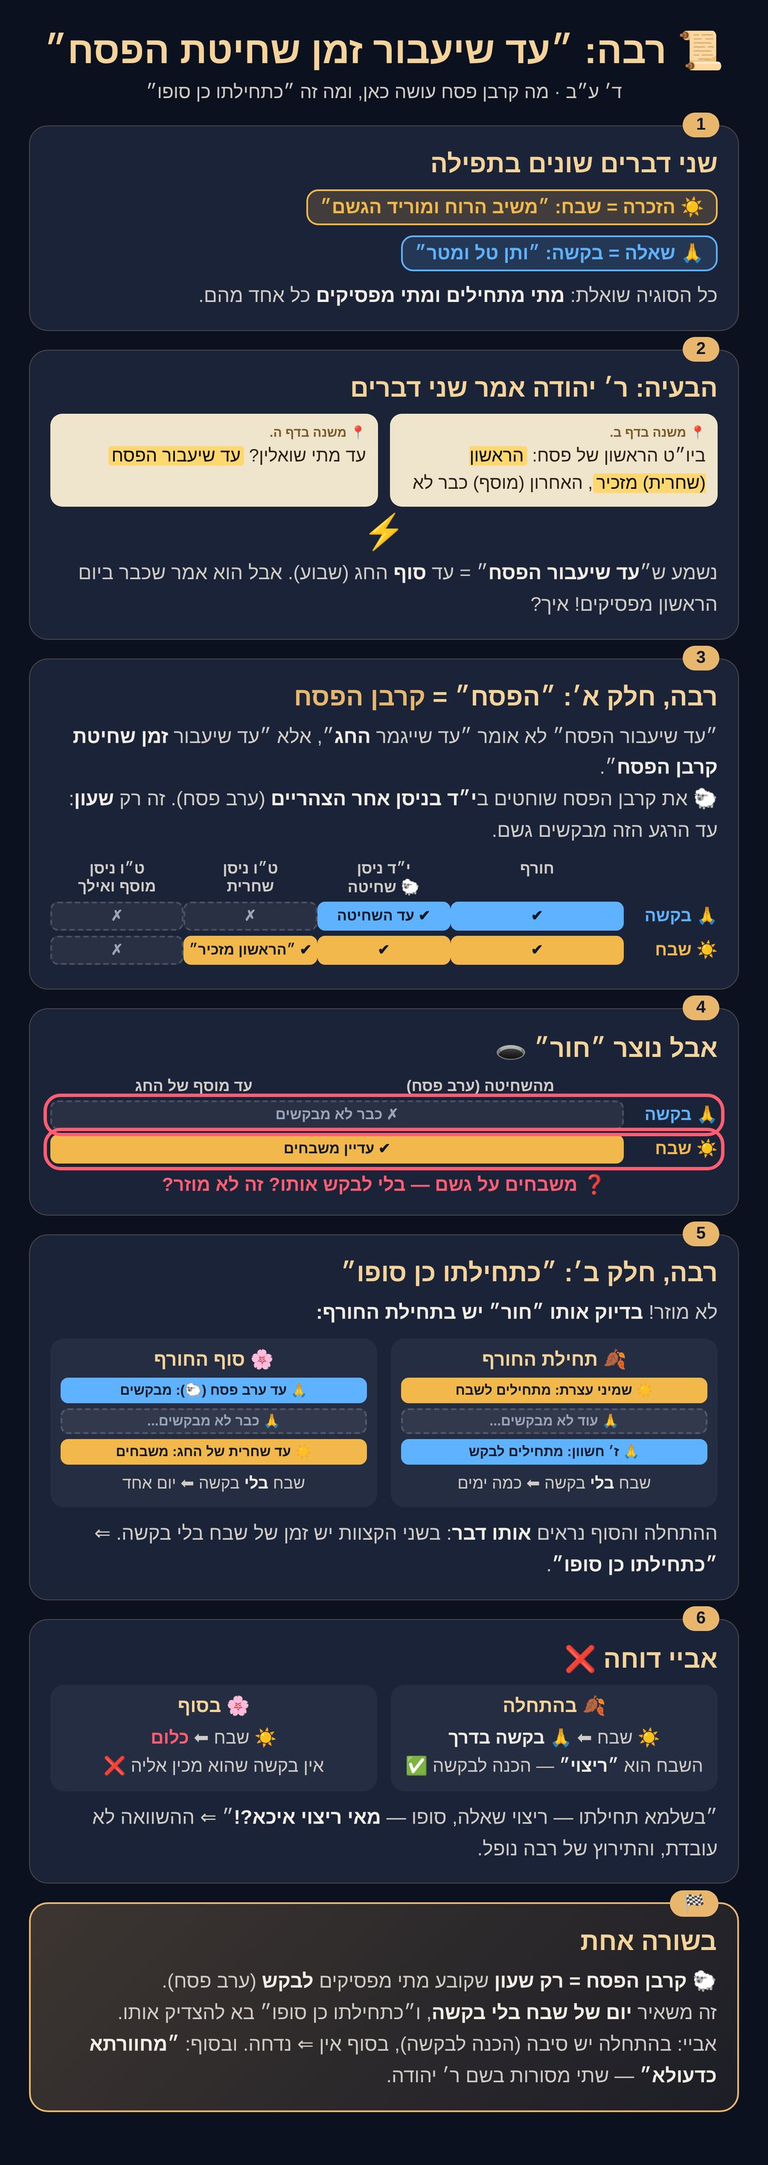
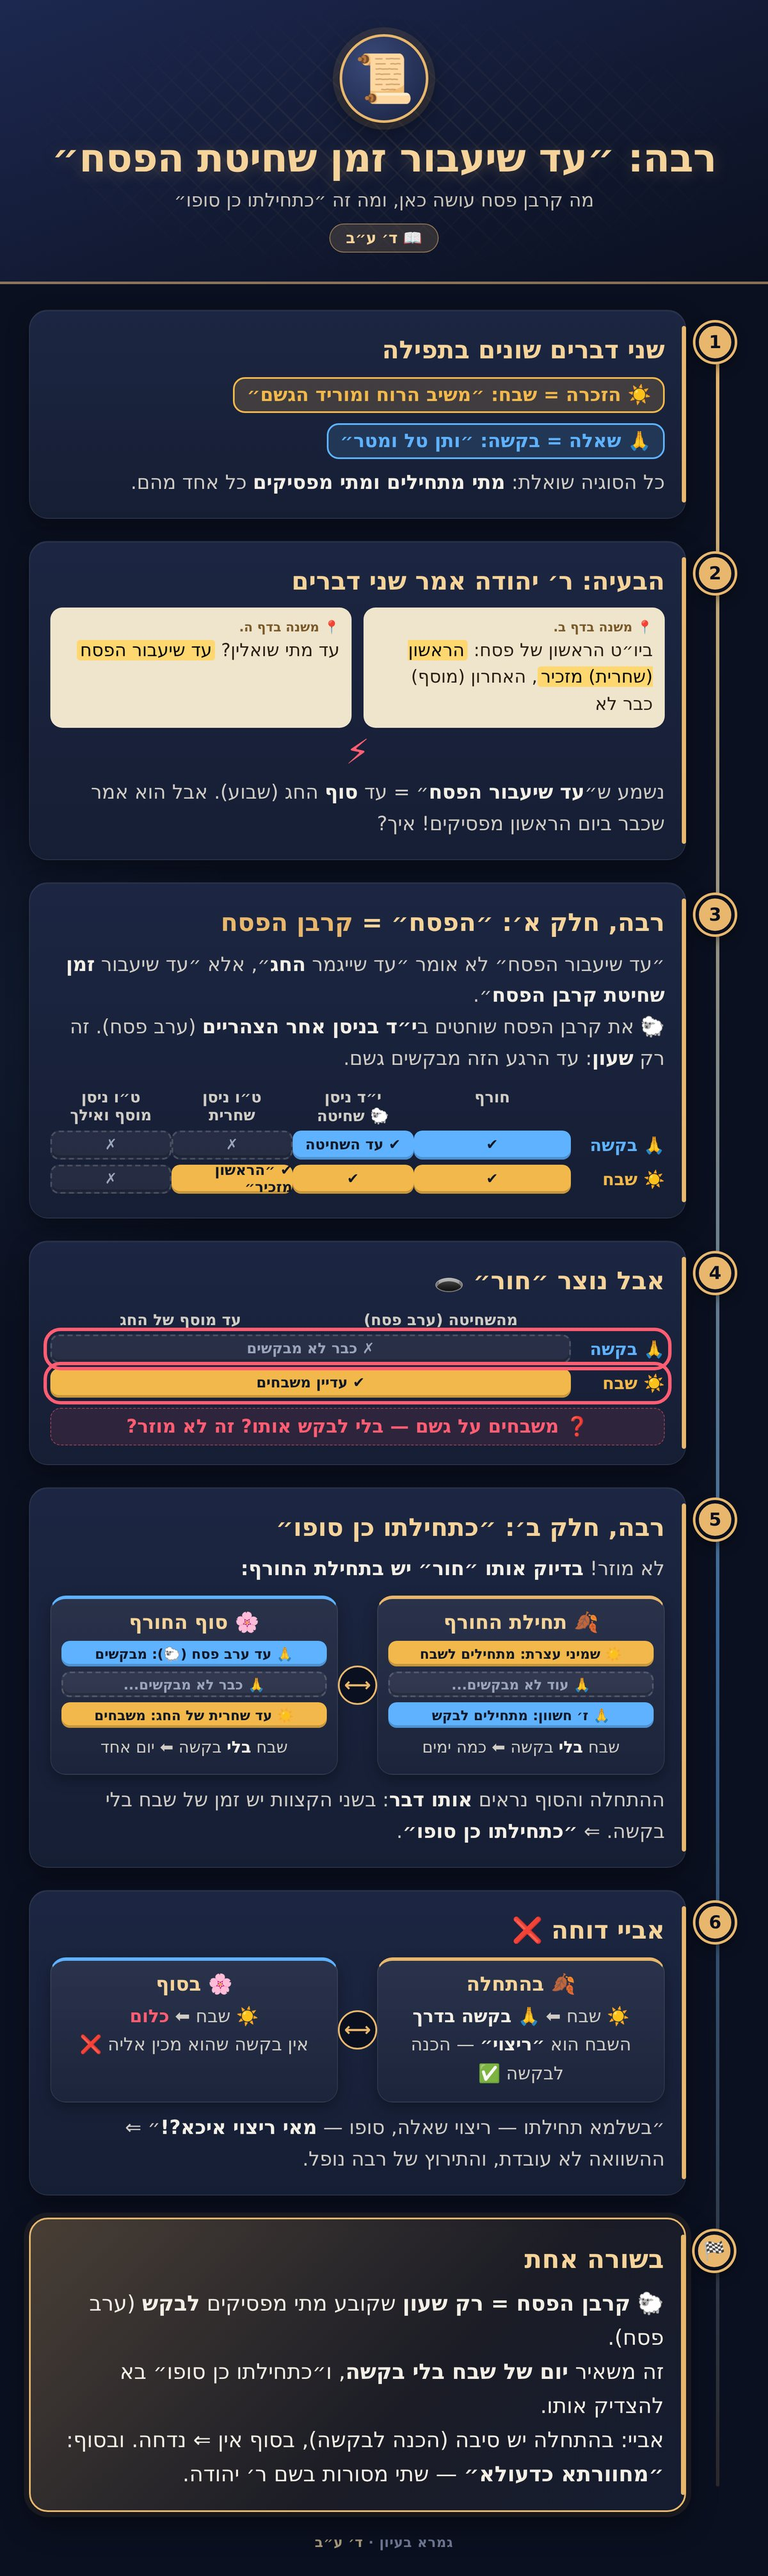
שדרוג העיצוב של כל 28 ההסברים המאוירים: כותרת מעוצבת, קו זרימה בין השלבים, תגית תפקיד לכל שלב, כרטיסים, טבלאות ו״מול״ עשירים יותר (#102)
Claude-Session: https://claude.ai/code/session_01FELJGEZVtARXENqMAaEEkw

diff --git a/sw.js b/sw.js
@@ -2,7 +2,7 @@
 // קוד ונתונים (html/js/css): קודם מהרשת (תמיד הגרסה החדשה), ואם אין רשת — מהשמור.
 // תמונות (צילומי דף, איורים, אייקונים): קודם מהשמור, כי הן כמעט לא משתנות; מתעדכנות ברקע.
 // שינוי גדול במבנה, או שינוי של תמונה קיימת (חיתוך מחדש, שינוי מספור קטעים)? מעלים את VERSION — אחרת הטלפון יציג את התמונה הישנה מהשמור.
-const VERSION = 'v12';
+const VERSION = 'v13';
 const CORE = ['./', 'index.html', 'taanit.html', 'tree.html', 'words.html', 'theme.css', 'prefs.js', 'loader.js', 'explain.js',
   'data/common.js', 'data/taanit/index.js', 'data/taanit/words.js', 'manifest.webmanifest', 'icons/icon-192.png'];
 // רשימת הדפים הבנויים — מהמפה של המסכת (MAS), כך שאין צורך לעדכן כאן כשמוסיפים דף

diff --git a/.claude/tools/explain/exlib.py b/.claude/tools/explain/exlib.py
@@ -19,10 +19,19 @@ table.t td.n{color:var(--gb);font-weight:900}
 .lst div{margin:4px 0} .lst b{color:var(--p)}
 .vq{font-family:'Frank Ruhl Libre','David',serif;font-size:24px;color:#ffe6b0}
 """
+CSS += "\n/* ===================== 🎨 עיצוב משודרג (נוב׳ 2026) ===================== */\n:root{--ink:#0b1020;--card:#161e34;--card2:#1c2642}\nbody{background:#0b1020;width:900px;padding:0 0 30px;font-family:'DejaVu Sans','Heebo','Noto Sans Hebrew',Arial,sans-serif;\n  background-image:radial-gradient(900px 500px at 85% -10%,rgba(232,183,109,.16),transparent 60%),radial-gradient(700px 600px at -10% 40%,rgba(95,178,255,.07),transparent 60%)}\n.hero{position:relative;margin:0 0 30px;padding:40px 40px 34px;text-align:center;overflow:hidden;\n  background:linear-gradient(160deg,#1d2850 0%,#121a33 55%,#0b1020 100%);border-bottom:3px solid rgba(232,183,109,.55)}\n.hero:before{content:'';position:absolute;inset:0;opacity:.18;\n  background-image:repeating-linear-gradient(45deg,rgba(232,183,109,.5) 0 2px,transparent 2px 22px),repeating-linear-gradient(-45deg,rgba(232,183,109,.35) 0 2px,transparent 2px 22px);\n  -webkit-mask-image:radial-gradient(ellipse at center,#000 0%,transparent 70%)}\n.hero .ic{position:relative;display:inline-flex;align-items:center;justify-content:center;width:104px;height:104px;border-radius:50%;font-size:56px;\n  background:radial-gradient(circle at 35% 30%,#3a4a7a,#18213f);border:3px solid var(--gold);box-shadow:0 0 0 8px rgba(232,183,109,.12),0 12px 30px rgba(0,0,0,.45);margin-bottom:14px}\n.hero h1{position:relative;font-size:46px;letter-spacing:-.5px;text-shadow:0 3px 18px rgba(232,183,109,.25)}\n.hero .sub{position:relative;margin:10px auto 0;max-width:760px;font-size:22px;color:#c9c3b8}\n.hero .daf{position:relative;display:inline-block;margin-top:14px;padding:5px 18px;border-radius:30px;background:rgba(232,183,109,.16);border:1px solid rgba(232,183,109,.55);color:var(--gb);font-weight:800;font-size:18px}\n.flow{position:relative;margin:0 34px;padding-right:62px}\n.flow:before{content:'';position:absolute;right:23px;top:18px;bottom:30px;width:4px;border-radius:4px;background:linear-gradient(180deg,var(--gold),rgba(95,178,255,.55) 60%,rgba(232,183,109,.15))}\n.step{background:linear-gradient(180deg,var(--card2),var(--card));border:1px solid rgba(255,255,255,.07);border-radius:22px;padding:20px 24px 22px;margin-bottom:26px;\n  box-shadow:0 10px 26px rgba(0,0,0,.35),inset 0 1px 0 rgba(255,255,255,.05)}\n.step:after{content:'';position:absolute;right:-1px;top:18px;bottom:18px;width:5px;border-radius:5px;background:var(--rc,var(--gold))}\n.step .num{top:14px;right:-58px;width:46px;height:46px;padding:0;border-radius:50%;display:flex;align-items:center;justify-content:center;font-size:21px;\n  background:var(--rc,var(--gold));color:#0b1020;border:4px solid #0b1020;box-shadow:0 0 0 3px var(--rc,var(--gold)),0 6px 14px rgba(0,0,0,.5)}\n.step .role{display:inline-flex;align-items:center;gap:6px;font-size:16px;font-weight:900;padding:3px 12px;border-radius:20px;\n  color:var(--rc,var(--gold));background:color-mix(in srgb,var(--rc,var(--gold)) 16%,transparent);border:1px solid color-mix(in srgb,var(--rc,var(--gold)) 50%,transparent)}\n.step h2{font-size:29px;margin:8px 0 12px;line-height:1.3}\n.step.q{--rc:#ff5d72;border-color:rgba(255,93,114,.25)} .step.a{--rc:#6fd35c;border-color:rgba(111,211,92,.22)} .step.x{--rc:#ff9f43;border-color:rgba(255,159,67,.25)}\n.step.s{--rc:#5fb2ff;border-color:rgba(95,178,255,.22)} .step.k{--rc:#c4a7ff;border-color:rgba(196,167,255,.22)} .step.n{--rc:#2dd4bf;border-color:rgba(45,212,191,.22)}\n.step.sum{--rc:var(--gold);background:linear-gradient(135deg,rgba(232,183,109,.28),rgba(232,183,109,.07) 60%,rgba(22,30,52,.9));border:2px solid var(--gold);\n  box-shadow:0 0 0 6px rgba(232,183,109,.08),0 14px 34px rgba(0,0,0,.45)}\n.step.sum h2{font-size:30px} .step.sum p{font-size:25px;color:var(--p);line-height:1.6}\n.node{border-radius:18px;padding:12px 16px;min-width:160px;box-shadow:0 6px 16px rgba(0,0,0,.3);background:linear-gradient(180deg,rgba(255,255,255,.07),rgba(255,255,255,.02))}\n.node.gd{background:linear-gradient(180deg,rgba(232,183,109,.26),rgba(232,183,109,.08))} .node.gr{background:linear-gradient(180deg,rgba(111,211,92,.22),rgba(111,211,92,.06))}\n.node.rd{background:linear-gradient(180deg,rgba(255,93,114,.22),rgba(255,93,114,.06))} .node.bl{background:linear-gradient(180deg,rgba(95,178,255,.22),rgba(95,178,255,.06))}\n.node.pu{border-color:#c4a7ff;background:linear-gradient(180deg,rgba(196,167,255,.22),rgba(196,167,255,.06))}\n.chain{gap:6px}\n.arr{display:inline-flex;align-items:center;justify-content:center;min-width:44px;height:44px;border-radius:50%;font-size:24px;background:rgba(232,183,109,.14);border:1px solid rgba(232,183,109,.45)}\n.chain>.node+.node{margin-right:4px}\n.mirror{position:relative;gap:46px}\n.mirror .box{background:linear-gradient(180deg,rgba(255,255,255,.07),rgba(255,255,255,.02));border:1px solid rgba(255,255,255,.08);border-top:4px solid var(--gold);border-radius:18px;padding:14px 12px 16px;box-shadow:0 6px 16px rgba(0,0,0,.3)}\n.mirror .box:nth-child(2){border-top-color:#5fb2ff}\n.mirror:after{content:'⟷';position:absolute;left:50%;top:50%;transform:translate(-50%,-50%);width:42px;height:42px;border-radius:50%;display:flex;align-items:center;justify-content:center;\n  background:#0b1020;border:2px solid var(--gold);color:var(--gold);font-size:22px;font-weight:900}\n.mirror h3{font-size:23px}\ntable.t{border-spacing:0 6px}\ntable.t th{background:linear-gradient(180deg,rgba(232,183,109,.3),rgba(232,183,109,.12));color:#ffe6b0;font-size:18px;padding:9px 8px;border-radius:0}\ntable.t th:first-child{border-radius:0 12px 12px 0} table.t th:last-child{border-radius:12px 0 0 12px}\ntable.t td{border-radius:0;background:rgba(255,255,255,.05);padding:10px 8px;border-top:1px solid rgba(255,255,255,.04)}\ntable.t tr:nth-child(odd) td{background:rgba(255,255,255,.08)}\ntable.t td:first-child{border-radius:0 12px 12px 0} table.t td:last-child{border-radius:12px 0 0 12px}\ntable.t tr td.n{color:#ffe6b0;background:rgba(232,183,109,.14)}\n.lst div{position:relative;padding:8px 14px 8px 10px;margin:8px 0;border-radius:12px;background:rgba(255,255,255,.05);border-right:4px solid var(--rc,var(--gold));line-height:1.55}\n.vq{display:inline-block;font-family:'FreeSerif','Frank Ruhl Libre','David',serif;font-size:27px;color:#3a2a14;background:linear-gradient(180deg,#f3e6c8,#e6d3a8);\n  padding:6px 16px;border-radius:10px;box-shadow:inset 0 0 0 1px rgba(122,90,42,.35),0 4px 10px rgba(0,0,0,.3);line-height:1.6}\n.gapnote{background:rgba(255,93,114,.1);border:1px dashed rgba(255,93,114,.5);border-radius:12px;padding:8px}\n.foot{margin:6px 34px 0;text-align:center;color:#6f7893;font-size:16px;font-weight:700;letter-spacing:.5px}\n.foot b{color:#a99a7c}\n.bar{border-radius:10px;box-shadow:inset 0 -3px 0 rgba(0,0,0,.18)}\n"
+import re as _re
+ROLE_LBL = {"q": "❓ שאלה", "a": "✅ תשובה", "x": "⚡ דחייה", "s": "📜 מקור", "k": "💡 הסבר", "n": "📖 מעשה / ראיה"}
 def page(title, sub, body):
-    return f'<!doctype html><html lang="he" dir="rtl"><head><meta charset="utf-8"><style>{CSS}</style></head><body><h1>{title}</h1><div class="sub">{sub}</div>{body}</body></html>'
+    m = _re.match(r'^\s*([^\w\s״"׳<]{1,3})\s*(.*)$', title)   # האמוג׳י בתחילת הכותרת → סמל גדול
+    ic, t = (m.group(1), m.group(2)) if m else ('📜', title)
+    daf, _, rest = sub.partition(' · ')
+    hero = f'<div class="hero"><div class="ic">{ic}</div><h1>{t}</h1><div class="sub">{rest or daf}</div>' + (f'<div class="daf">📖 {daf}</div>' if rest else '') + '</div>'
+    foot = f'<div class="foot">גמרא בעיון · <b>{daf}</b></div>'
+    return f'<!doctype html><html lang="he" dir="rtl"><head><meta charset="utf-8"><style>{CSS}</style></head><body>{hero}<div class="flow">{body}</div>{foot}</body></html>'
 def step(n, h, inner, cls=''):
-    return f'<div class="step {cls}"><span class="num">{n}</span><h2>{h}</h2>{inner}</div>'
+    role = f'<span class="role">{ROLE_LBL[cls]}</span>' if cls in ROLE_LBL else ''
+    return f'<div class="step {cls}"><span class="num">{n}</span>{role}<h2>{h}</h2>{inner}</div>'
 def P(t, st=''): return f'<p style="{st}">{t}</p>'
 def chips(*c): return ''.join(f'<div class="legend"><span class="chip {k}">{t}</span></div>' for k, t in c)
 def two(*ms): return '<div class="two">' + ''.join(f'<div class="m"><div class="w">📍 {w}</div>{t}</div>' for w, t in ms) + '</div>'
@@ -51,3 +60,15 @@ def table(head, rows):
     return o + '</table>'
 def lst(*xs): return '<div class="lst">' + ''.join(f'<div>{x}</div>' for x in xs) + '</div>'
 def sumbox(t, n='🏁', h='בשורה אחת'): return f'<div class="step sum"><span class="num">{n}</span><h2>{h}</h2><p>{t}</p></div>'
+
+def upgrade_raw(html):
+    """איורים שנכתבו ביד (raw/*.html): אותו עיצוב משודרג — כותרת, קו זרימה ותגית תפקיד"""
+    html = html.replace('</style>', CSS.split('/* ===================== 🎨 עיצוב משודרג')[1].split('*/', 1)[1] + '</style>', 1) if '🎨 עיצוב משודרג' in CSS else html
+    m = _re.search(r'<h1>(.*?)</h1>\s*<div class="sub">(.*?)</div>', html, _re.S)
+    if not m: return html
+    t = m.group(1); mm = _re.match(r'^\s*([^\w\s״"׳<]{1,3})\s*(.*)$', t)
+    ic, t = (mm.group(1), mm.group(2)) if mm else ('📜', t)
+    daf, _, rest = m.group(2).partition(' · ')
+    hero = f'<div class="hero"><div class="ic">{ic}</div><h1>{t}</h1><div class="sub">{rest or daf}</div>' + (f'<div class="daf">📖 {daf}</div>' if rest else '') + '</div><div class="flow">'
+    html = html[:m.start()] + hero + html[m.end():]
+    return html.replace('</body>', f'</div><div class="foot">גמרא בעיון · <b>{daf}</b></div></body>', 1)

diff --git a/.claude/tools/explain/build.py b/.claude/tools/explain/build.py
@@ -8,7 +8,8 @@ sys.path.insert(0, H)
 from spec import E
 OUT = os.path.join(ROOT, '.claude', 'out', 'explain'); os.makedirs(OUT, exist_ok=True)
 pages = dict(E)
-for f in glob.glob(os.path.join(H, 'raw', '*.html')): pages[os.path.basename(f)[:-5]] = open(f, encoding='utf-8').read()
+from exlib import upgrade_raw
+for f in glob.glob(os.path.join(H, 'raw', '*.html')): pages[os.path.basename(f)[:-5]] = upgrade_raw(open(f, encoding='utf-8').read())
 names = sys.argv[1:] or list(pages)
 for n in names: open(os.path.join(OUT, n + '.html'), 'w', encoding='utf-8').write(pages[n])
 js = """const { chromium } = require('playwright'); const [D, ...names] = process.argv.slice(2);
